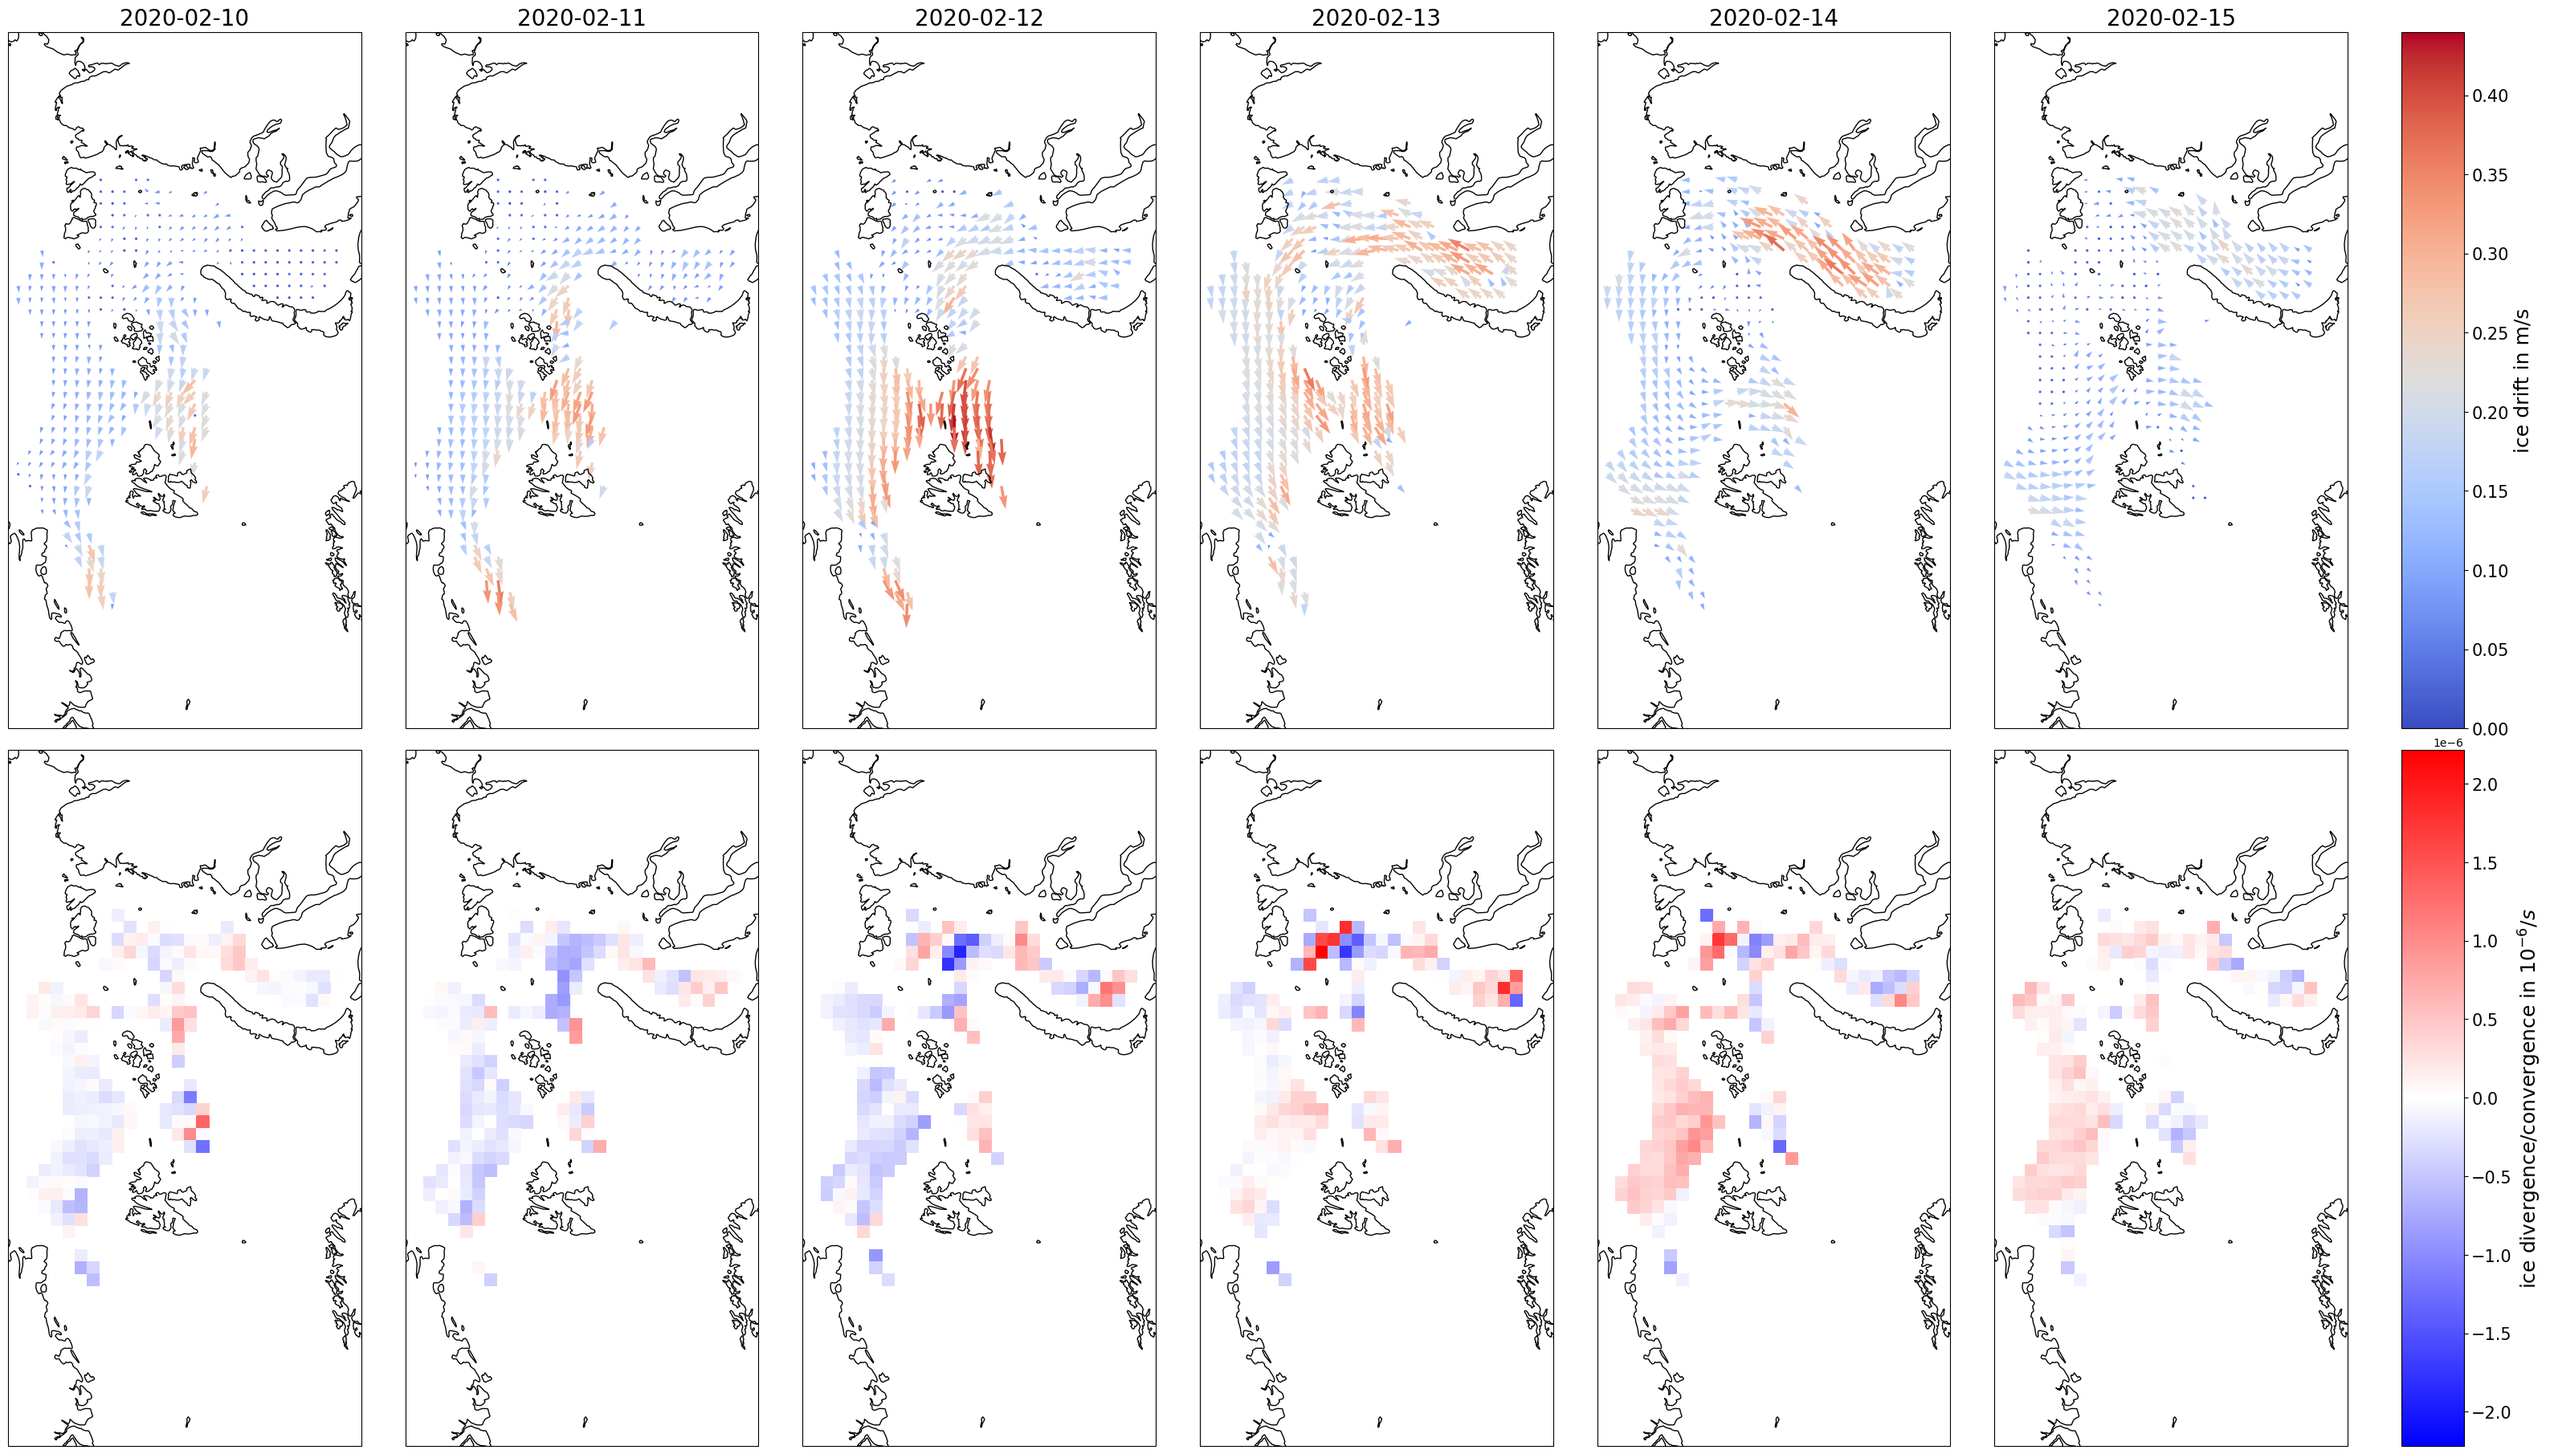
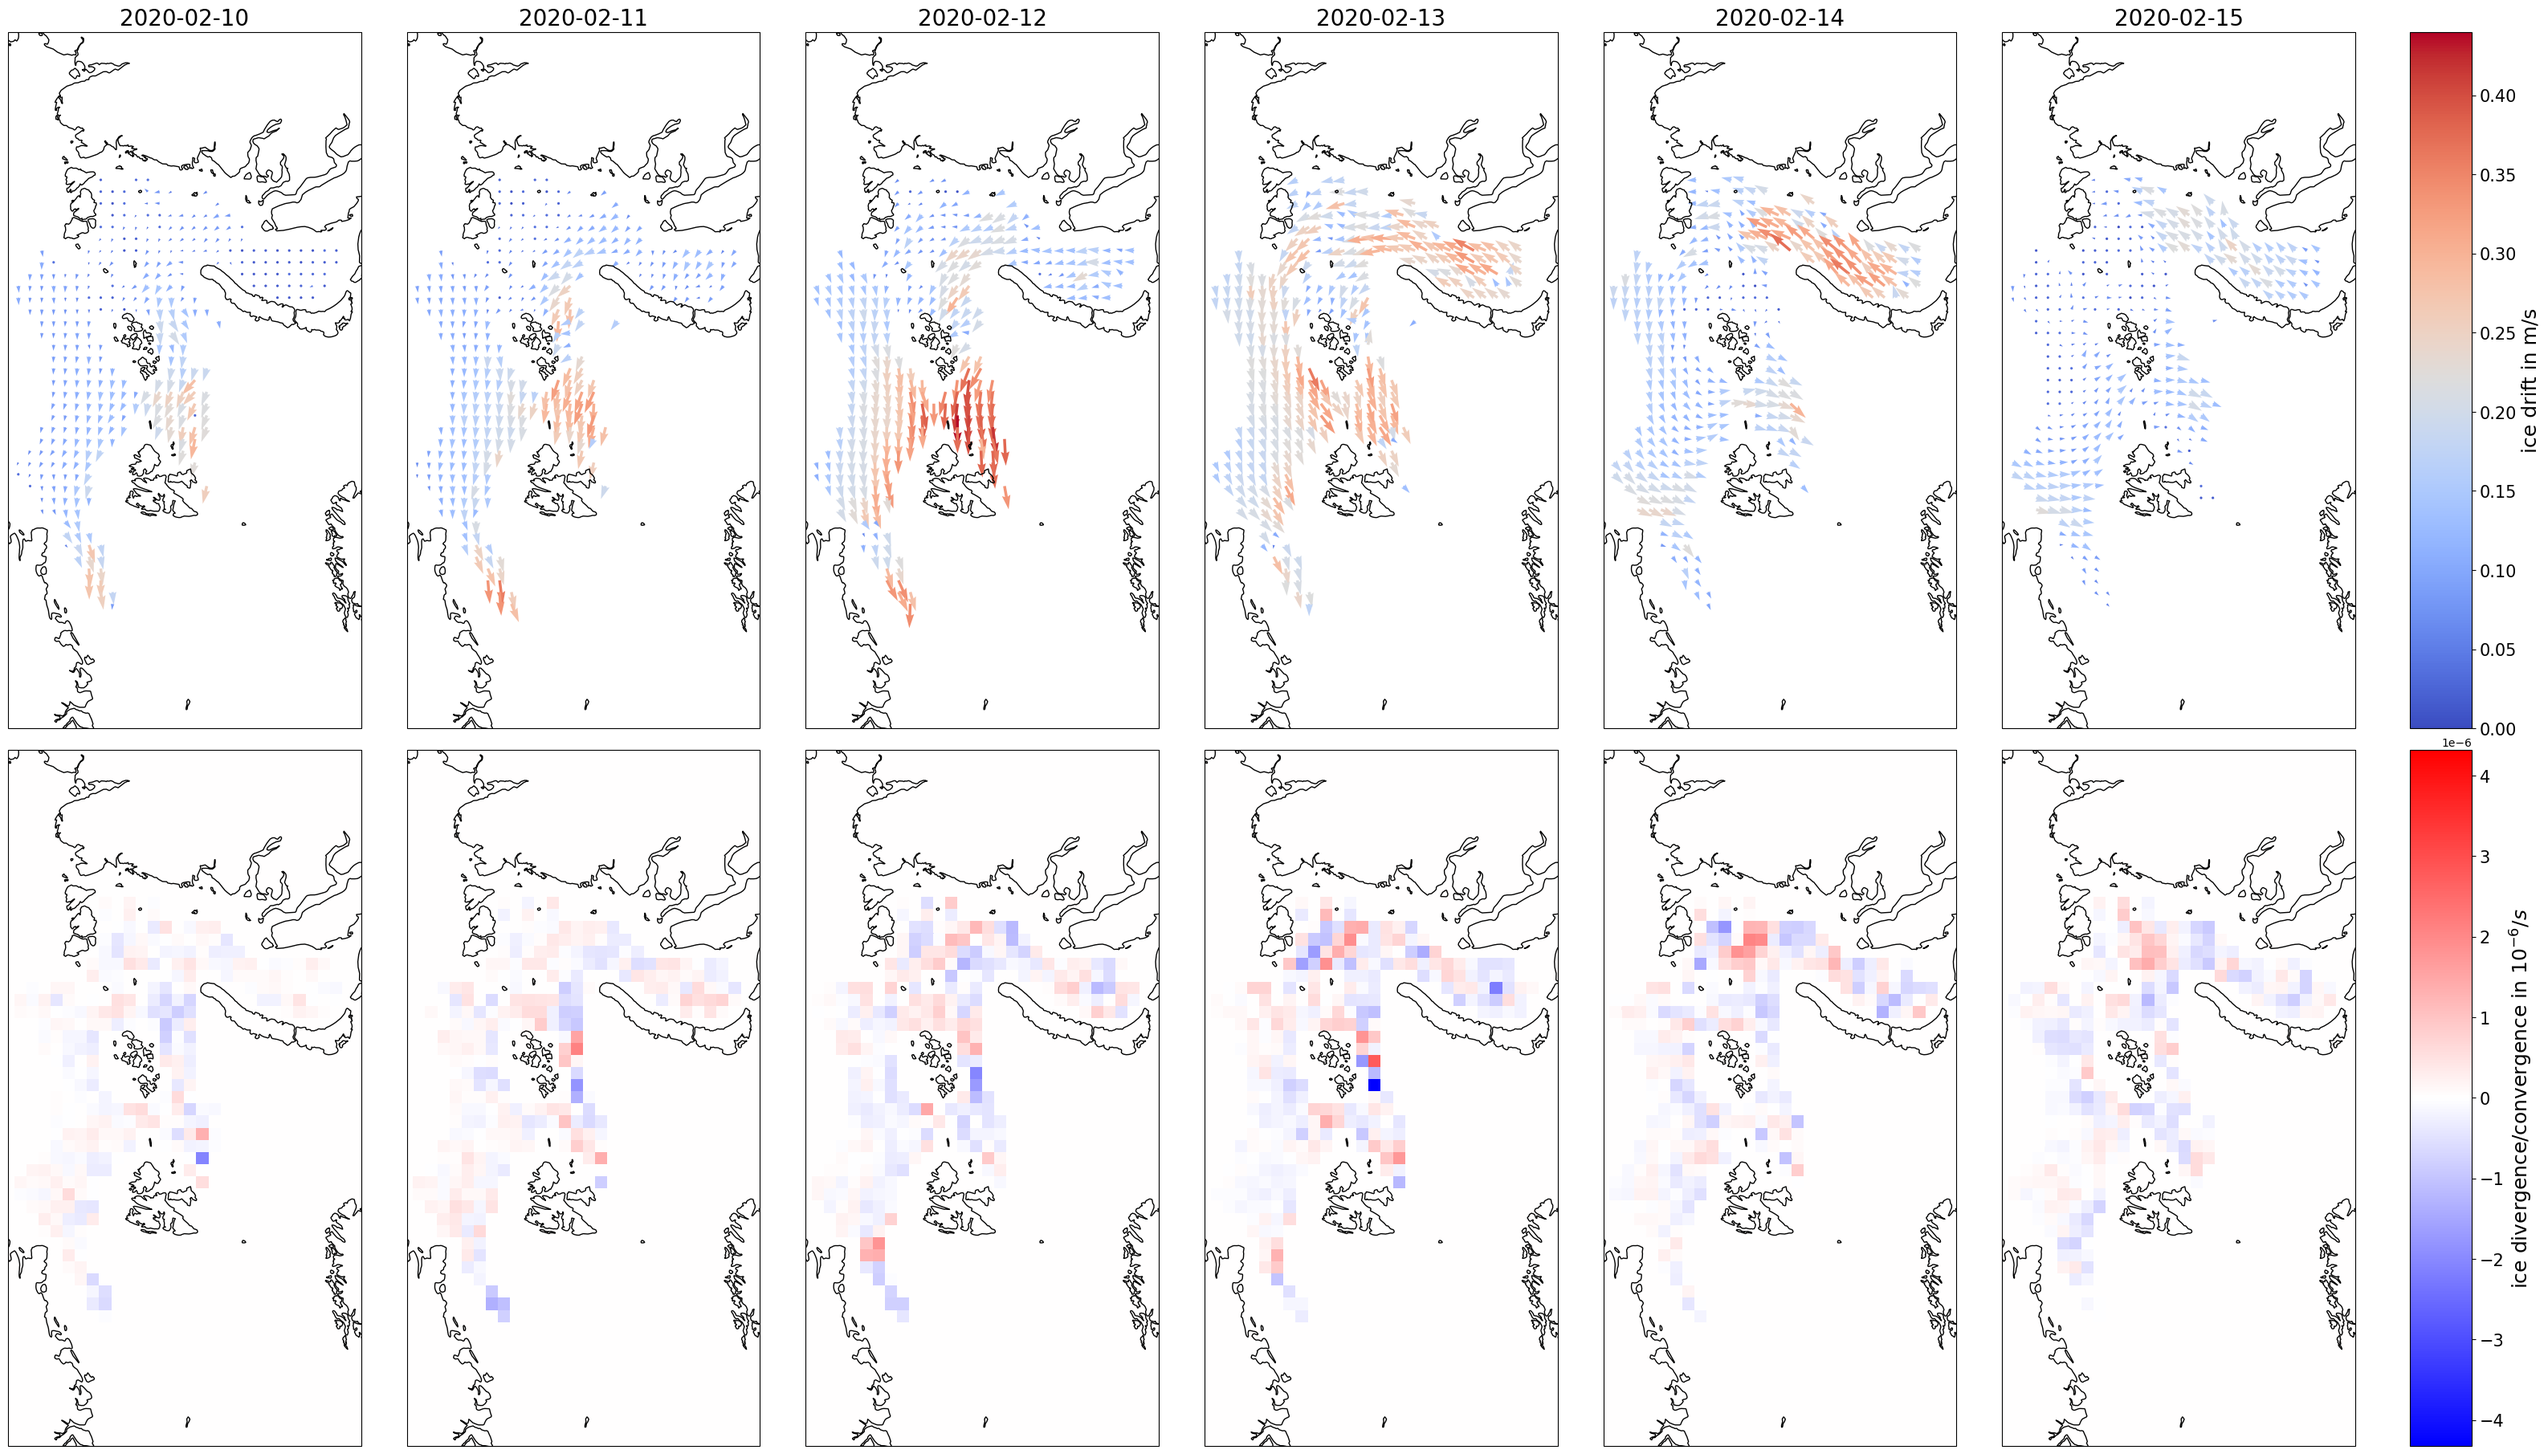
removed numpy gradient function

diff --git a/ice_divergence.py b/ice_divergence.py
@@ -28,9 +28,16 @@ def del_matrix_neighbour(matrix):
     return np.reshape(matrix - matrix_p1, shape)
 
 
-def matrix_neighbour_diff(matrix):
-    gradv, gradh = np.gradient(matrix)
-    return .5 * (gradv + gradh)
+def matrix_neighbour_diff(x_matrix, y_matrix):
+    du = np.zeros(x_matrix.shape)
+    dv = np.zeros(x_matrix.shape)
+
+    for i in range(1, x_matrix.shape[0] - 1):
+        for j in range(1, x_matrix.shape[1] - 1):
+            du[i, j] = x_matrix[i, j+1] - x_matrix[i, j-1]
+            dv[i, j] = y_matrix[i+1, j] - y_matrix[i-1, j]
+
+    return du, dv
 
 
 def lonlat_mask(extent, lon, lat):
@@ -169,7 +176,6 @@ class Eumetsat:
     def ice_div(self, date):
         # choose the right data set corresponding to date
         dX, dY = self.get_disp(date)
-
         # observation time (48h) in seconds
         dt = 172800
 
@@ -178,9 +184,41 @@ class Eumetsat:
 
         # calculate divergence values in 1/s
         # distance between two cells is always 62.5 km (both x,y direction)
-        #du, dv = del_matrix_neighbour(u), del_matrix_neighbour(v)
-        du, dv = matrix_neighbour_diff(u), matrix_neighbour_diff(v)
-        return (du + dv)/62.5
+        #du, dv = matrix_neighbour_diff(u, v)
+
+        hy = np.zeros((dY.shape[0], 1))
+        vx = np.zeros((1, dX.shape[1]))
+        up1 = np.hstack((np.hstack((u, hy)), hy))
+        vp1 = np.vstack((vx, np.vstack((vx, v))))
+        up1, vp1 = np.delete(up1, 0, 1), np.delete(vp1, -1, 0)
+        up1, vp1 = np.delete(up1, 0, 1), np.delete(vp1, -1, 0)
+        du, dv = u - up1, v - vp1
+        '''
+
+        test = 80
+        test2 = 50
+        
+
+        fig, ax = plt.subplots(subplot_kw={"projection": ccrs.NorthPolarStereo(-45)})
+        ax.coastlines(resolution='50m')
+        ax.set_extent(self.extent, crs=ccrs.PlateCarree())
+
+        un = np.full(u.shape, np.nan)
+        vn = np.full(u.shape, np.nan)
+        div = (du + dv)
+        #print(u[81:83, 50:52],'\n',up1[81:83, 50:52], '\n')
+        #print(v[81:83, 50:52],'\n',vp1[81:83, 50:52], '\n')
+        #print(div[82, 50])
+        un[test:test + 10, test2:test2 + 5] = u[test:test + 10, test2:test2 + 5]
+        vn[test:test + 10, test2:test2 + 5] = v[test:test + 10, test2:test2 + 5]
+        #ax.pcolormesh(self.lon, self.lat, dv, transform=ccrs.PlateCarree())
+        print(u[test:test + 10, test2:test2 + 3], '\n')
+        print(v[test:test + 10, test2:test2 + 3], '\n')
+        print(div[test:test + 10, test2:test2 + 3])
+        ax.quiver(self.xc, self.yc, un, vn,transform=ccrs.NorthPolarStereo(-45), scale=.001)
+        plt.show()
+        '''
+        return np.nansum(np.dstack((du,dv)),2)/125
 
     def plot_div(self, dates):
         divs = []
@@ -214,6 +252,7 @@ class Eumetsat:
 
         for date, quiv, length in zip(dates, quivs, lengths):
             print(date)
+            print(self.xc.shape, self.yc.shape)
             fig, ax = plot.setup_plot(self.extent)
             im = ax.quiver(self.xc, self.yc, quiv[0] * factor, quiv[1] * factor, length * factor, scale=10, clim=(None, cap * factor),
                            transform=ccrs.NorthPolarStereo(-45), cmap='coolwarm')
@@ -418,10 +457,11 @@ class Eumetsat:
                                 f'{dates[begin]}_{dates[begin + self.prod - 1]}.png', False)
 
 
-
-
 if __name__ == '__main__':
-    Eumetsat(ci.arctic_extent).plot_drift_leads(dscience.time_delta('20200210', '20200229'), True)
+    #Eumetsat(ci.barent_extent).plot_drift_leads(dscience.time_delta('20200210', '20200229'), True)
+    #Eumetsat(ci.arctic_extent).ice_div('20200220')
+    Eumetsat(ci.barent_extent).plot_quiver_div(dscience.time_delta('20200210', '20200229'))
+    #Eumetsat(ci.arctic_extent).plot_quiver(['20200217'], False)
     #Eumetsat(ci.arctic_extent).plot_drift_leads(dscience.time_delta('20200210', '20200229'), False)
     # test new username
     #Eumetsat(ci.arctic_extent).plot_div_leads(dscience.time_delta('20200210', '20200229'), True)
